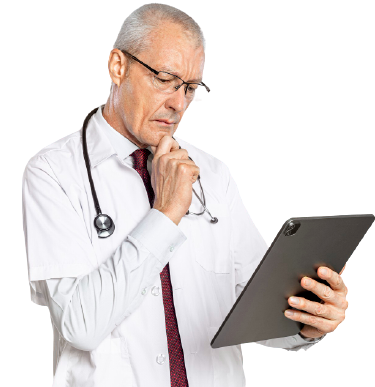
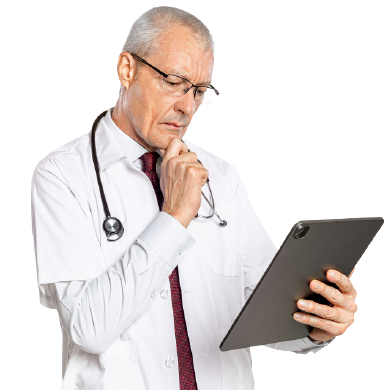
edit booking buttons position

diff --git a/components/SuccessScreen.tsx b/components/SuccessScreen.tsx
@@ -42,7 +42,7 @@ export default function SuccessScreen({
       <div className="relative h-150 w-full">
         <div className="absolute -top-7.5 right-0 rounded-t-[30px] bg-white h-150 w-full py-8 ">
           
-          <div className="h-full w-full flex flex-col items-center justify-center sm:justify-start gap-3 ">
+          <div className="h-full w-full flex flex-col items-center sm:justify-start gap-3 ">
             <div className="flex flex-col items-center gap-3">
               <div className="w-17.5 h-17.5 relative rounded-full bg-primary flex items-center justify-center">
                 <Image src="/images/like.png" alt="like" width={35} height={35} priority />
@@ -60,7 +60,7 @@ export default function SuccessScreen({
           </div>
 
           {/* BUTTON SECTION */}
-          <div className="w-full h-23 sm:h-20 fixed left-0 bottom-18 flex flex-col items-center">
+          <div className="w-full h-6 fixed left-0 bottom-18 sm:bottom-0 flex flex-col items-center">
             <button
               type="button"
               onClick={onHome}

diff --git a/components/Onboarding.tsx b/components/Onboarding.tsx
@@ -76,7 +76,7 @@ export default function Onboarding({
         </div>
 
           {/* MAIN */}
-        <div className="mt-11.75 h-full flex flex-col justify-between ">
+        <div className="mt-11.75 h-full flex flex-col justify-between pb-5">
           {/* ONBOARDING INFO AND IMAGE */}
           <div className="flex flex-col items-center gap-10 ">
             {/* ONBOARDING IMAGE CONTAINER */}
@@ -108,14 +108,6 @@ export default function Onboarding({
             </div>
 
           </div>
-          {/* <div className="mb-8 mt-auto flex items-center justify-center gap-2">
-                {onboarding.map((item, dotIndex) => (
-                  <span
-                key={item.title}
-                    className={`h-2 rounded-full transition-all ${dotIndex === index ? "w-8 bg-primary" : "w-2 bg-border"}`}
-                  />
-                ))}
-              </div> */}
 
             {/* I HAVE EDITING THIS ITTEM */}
           <div className="flex justify-center w-full h-38">

diff --git a/components/DoctorScreen.tsx b/components/DoctorScreen.tsx
@@ -51,7 +51,7 @@ export default function DoctorScreen({ doctor, onBack, onBook }: { doctor: Docto
           </div>
 
           {/* BUTTON SECTION */}
-          <div className="w-full h-23 fixed left-0 bottom-18 sm:bottom-2 flex justify-center">
+          <div className="w-full h-6 fixed left-0 bottom-18 sm:bottom-2 flex justify-center">
             <button
               type="button"
               onClick={onBook}

diff --git a/components/BookingScreen.tsx b/components/BookingScreen.tsx
@@ -116,7 +116,7 @@ export default function BookingScreen({
           </div>
 
           {/* BUTTON SECTION */}
-          <div className="w-full h-23 sm:h-20 fixed left-0 bottom-18 sm:bottom-0 flex justify-center">
+          <div className="w-full h-6 fixed left-0 bottom-18 sm:bottom-0 flex justify-center">
             <button
               type="button"
               onClick={onConfirm}
